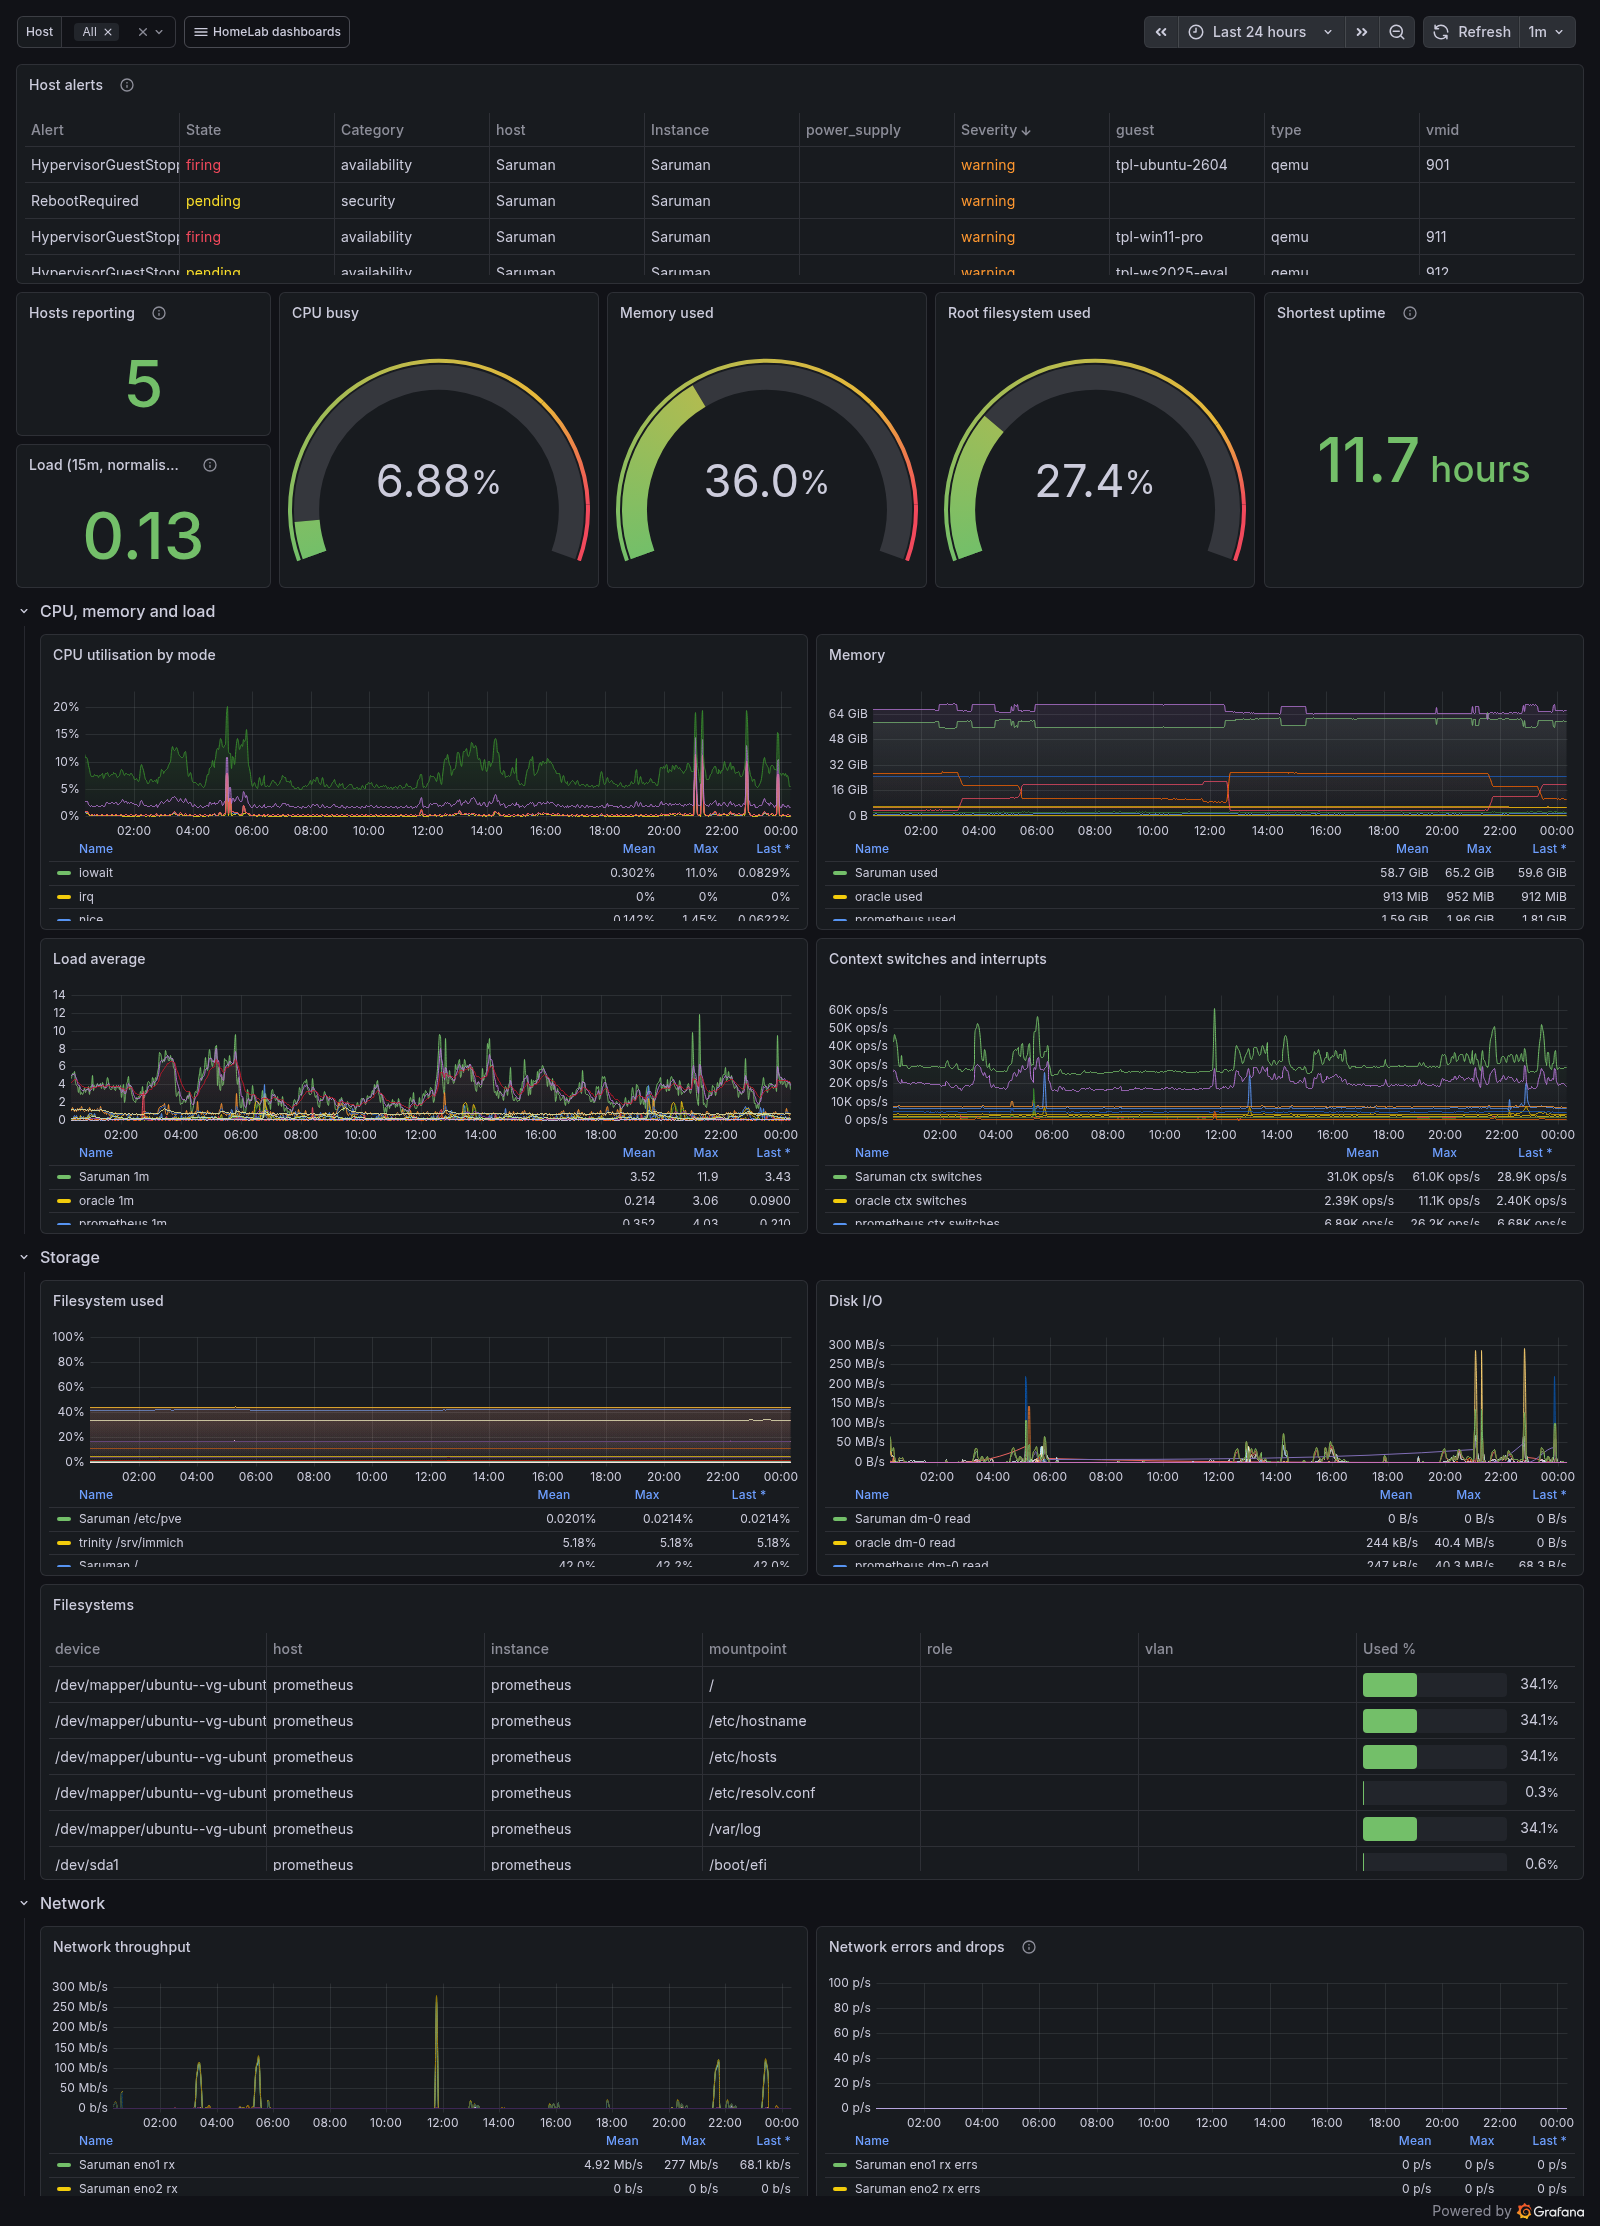
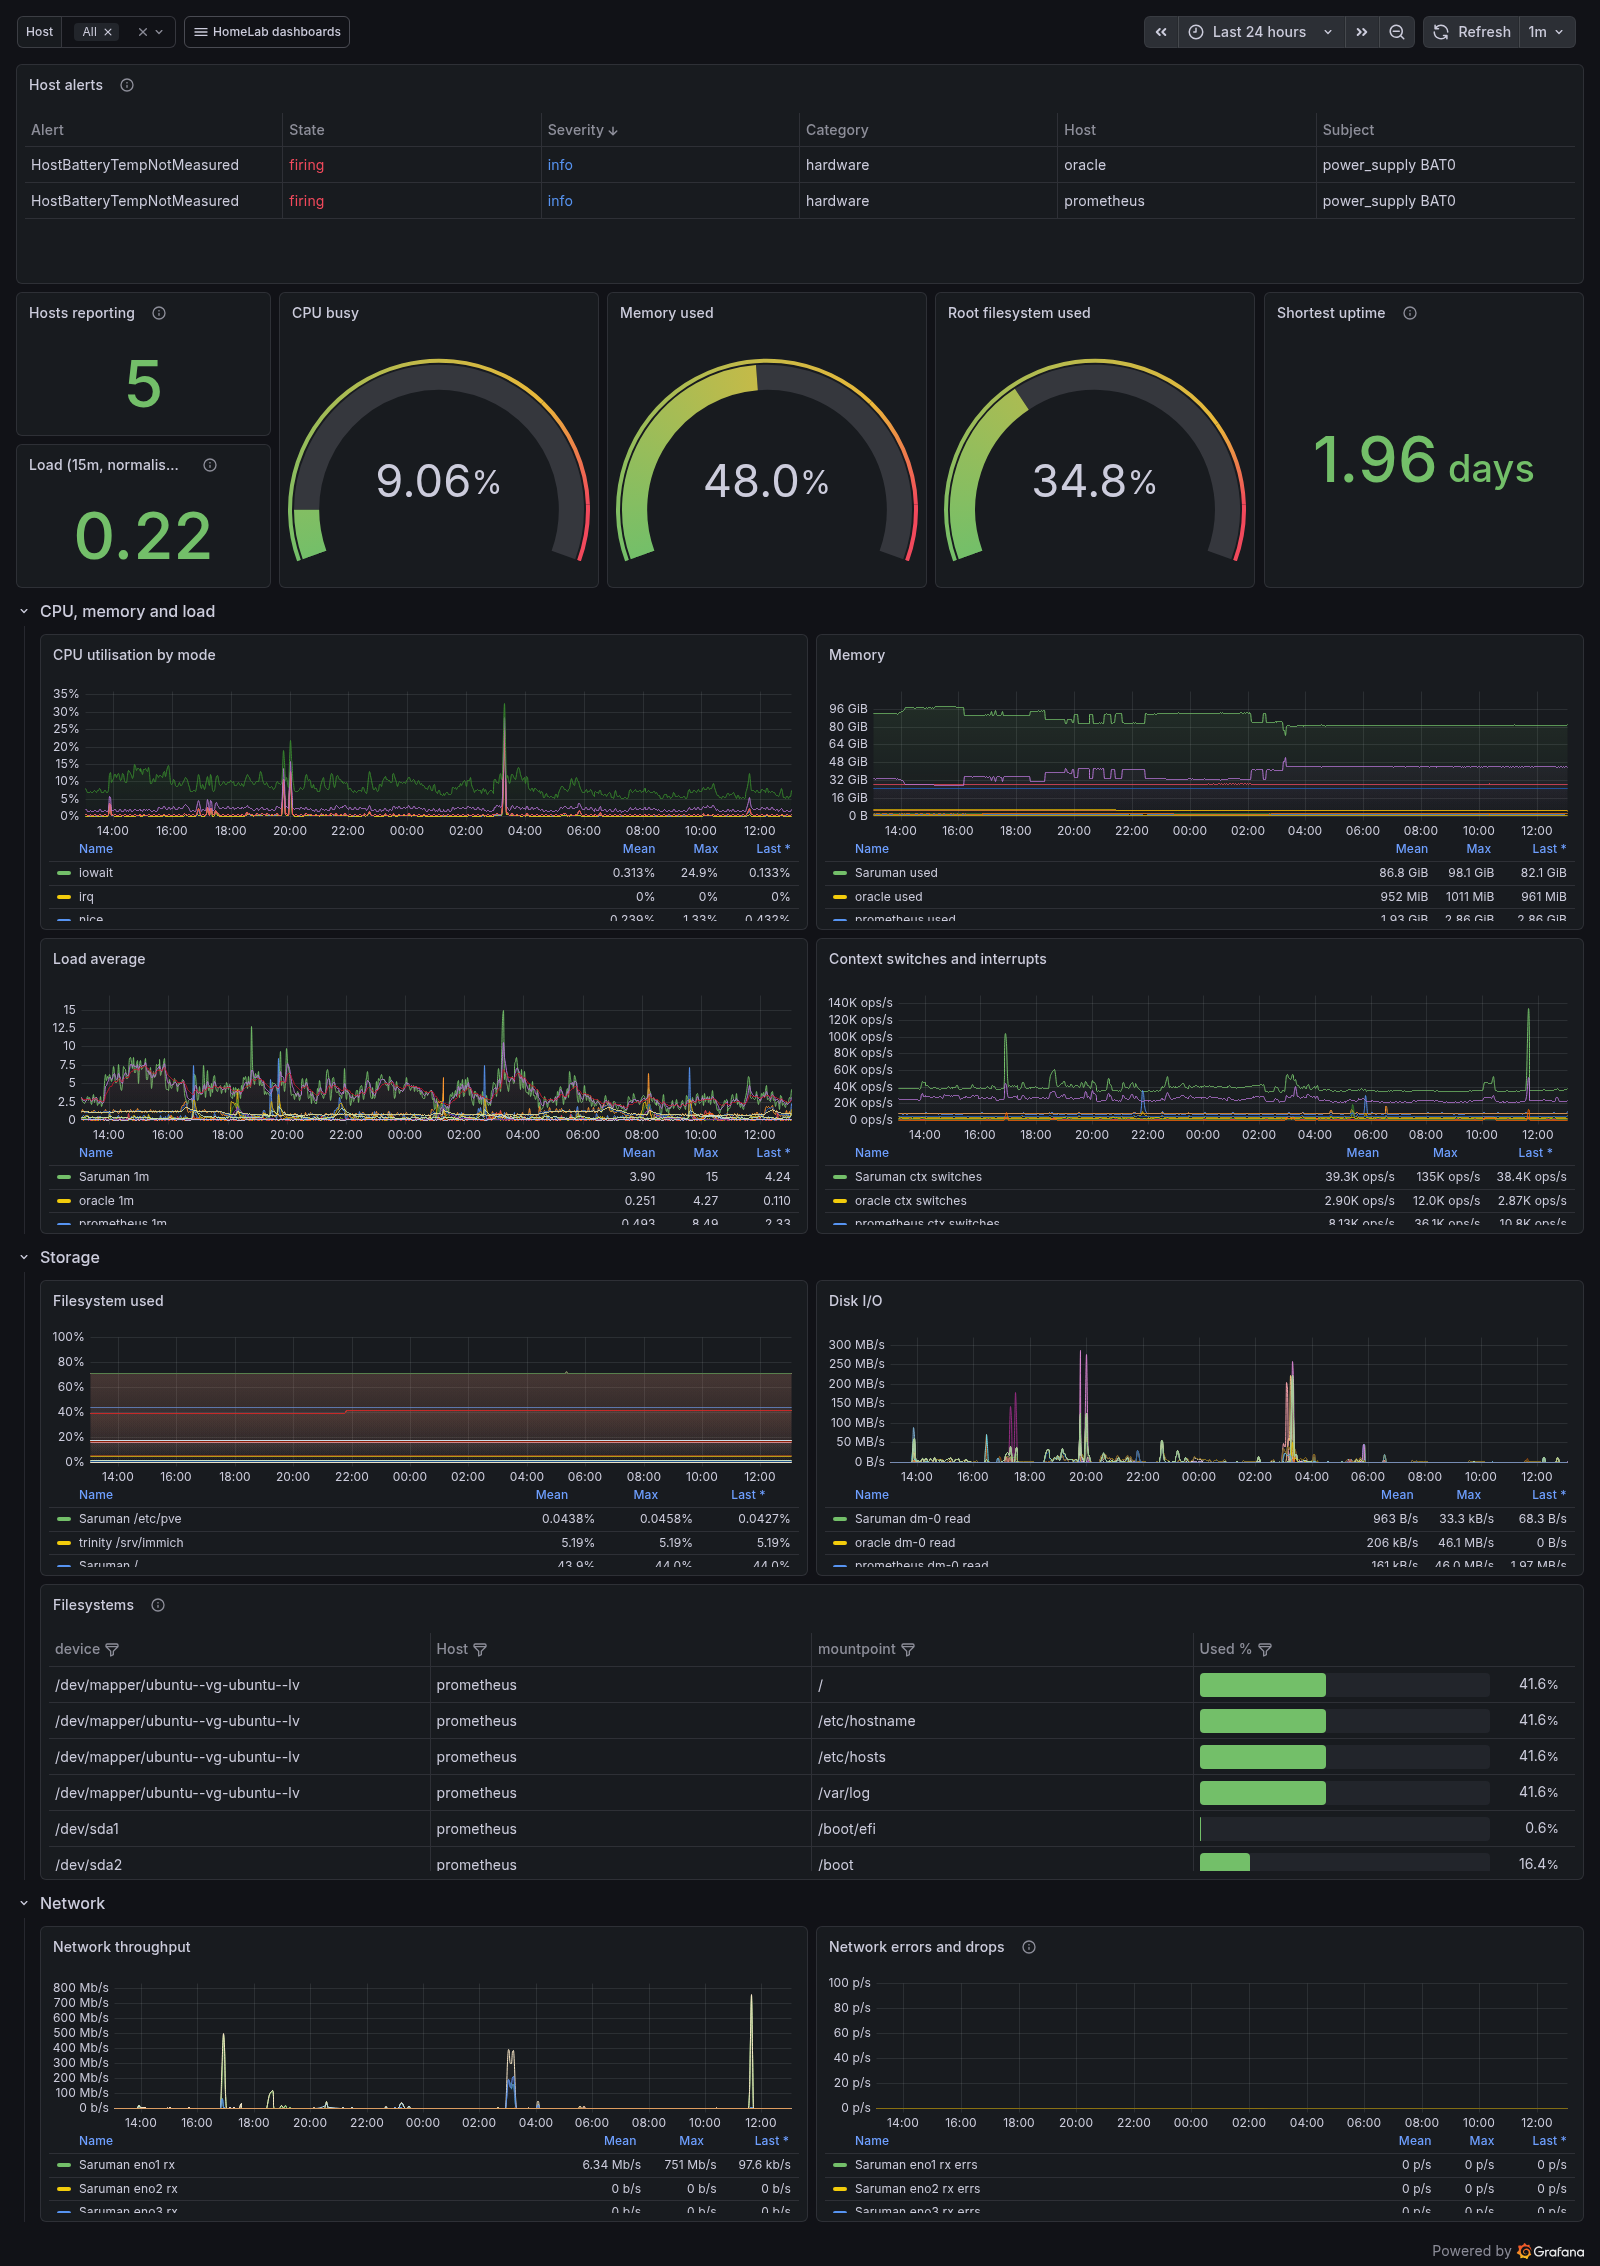
feat(observability): size speedtest-tracker at full rate, and capture the Internet dashboard (#924)
The memory limit stays at 384m, now justified by a measurement at full rate.
Anon memory peaked at 76.5 MiB across two ~940 Mbit/s tests, sampled twice a
second. The term RSS-based sizing missed is opcache: a 128 MiB shared segment,
90 MiB touched, which is charged as shmem and cannot be reclaimed without
swap. 3 x 76.5 + 128 = 358.

homelab-internet joins the capture set, and the whole set is re-shot on
2026-10-10. The re-shoot found two faults, and this fixes both:
- The height formula did not allow for the kiosk footer, which covered the
  last ~40px of every capture. The allowance goes from 60 to 100.
- Speed tests and WAN throughput were too short for their four-row legends.

docs/images/README.md drops the per-image notes for panel faults that now
render fixed (#886-#889).

diff --git a/docs/images/README.md b/docs/images/README.md
@@ -12,8 +12,8 @@ out rather than illustrated.
 
 ## What is here now
 
-Five images, captured in a single run on 2026-10-04 over a 24-hour window. One
-run rather than five afternoons: a set shot at the same moment is comparable,
+Six images, captured in a single run on 2026-10-10 over a 24-hour window. One
+run rather than six afternoons: a set shot at the same moment is comparable,
 and a gap in one of them is visible against the others.
 
 Which file holds which dashboard is in the table under "Capturing them" below,
@@ -23,33 +23,29 @@ Some things in them are real and should not be tidied away. A screenshot of a
 stack with nothing wrong would be the less honest picture, so each of these is
 recorded here instead of being cropped out:
 
-- **`host-overview.png`:** the alert table shows `HypervisorGuestStopped` for
-  the Packer templates 901 and 911. Templates never run, so this is the rule
-  needing a template exclusion, not a guest that died ([#885](https://github.com/Gerrrt/HomeLab/issues/885)).
-- **`network-snmp.png`:**
-  - *Firewall uptime* reads 12 years. `pfStatusRuntime` is in hundredths of a
-    second and the panel treats it as seconds, so the value is about 44 days
-    ([#886](https://github.com/Gerrrt/HomeLab/issues/886)). The panel now divides by
-    100; the image predates the fix.
-  - The firewall's *Filesystem usage* panel says *No data*. #873 added it, and
-    on the day of the capture the running stack was not yet collecting
-    `hrStorage` from `morpheus`: its rendered `snmp.yaml` predated the generator
-    change. It was re-rendered and the exporter recreated the same day
-    ([#887](https://github.com/Gerrrt/HomeLab/issues/887)), and the panel
-    has had data since.
-  - The iLO *Hardware health* table shows raw `cpqHeTemperature` column names
-    ([#888](https://github.com/Gerrrt/HomeLab/issues/888)).
-  - The `IloBatteryCondition` fault the 2026-08-22 capture showed is gone: the
-    pack was replaced on 2026-09-02.
-- **`ups-power.png`:**
-  - It now shows measured values under the banner that records the pack being
-    fitted and proven.
-  - *Input frequency* reads 600: the card reports tenths of a hertz and the
-    panel did not divide ([#889](https://github.com/Gerrrt/HomeLab/issues/889)). It now divides by 10;
-    the image predates the fix.
-- **`observability-stack.png`:** this is its first capture. The step in
-  ingestion near 22:00 is the stack being redeployed two hours before the
-  shot.
+- **`host-overview.png`:** the alert table shows `HostBatteryTempNotMeasured`
+  for `oracle` and `prometheus`. It is `info` on purpose: neither laptop pack
+  reports a temperature, and the rule says so for as long as that is true (the
+  comment above it in `host.rules.yaml` has why). The `HypervisorGuestStopped`
+  rows for the Packer templates the 2026-10-04 set showed are gone
+  ([#885](https://github.com/Gerrrt/HomeLab/issues/885)).
+- **`docker-containers.png`:** `memtest-ag2` and `memtest-ag3` lead three of
+  the legends. They were scratch containers measuring an image's memory, and
+  were removed before this was written.
+- **`internet.png`:** this is its first capture. The download dips near 20:00,
+  07:00 and late morning and the 32 % loss spike near 09:00 are real tests and real loss,
+  not render artefacts; WAN receive errors stayed at zero throughout, so they
+  are not the #914 cable.
+
+The 2026-10-04 set recorded four panel faults that this one shows fixed:
+*Firewall uptime* reading 12 years ([#886](https://github.com/Gerrrt/HomeLab/issues/886)),
+the firewall's *Filesystem usage* saying *No data* ([#887](https://github.com/Gerrrt/HomeLab/issues/887)),
+raw `cpqHeTemperature` column names in the iLO *Hardware health* table
+([#888](https://github.com/Gerrrt/HomeLab/issues/888)), and *Input frequency*
+reading 600 ([#889](https://github.com/Gerrrt/HomeLab/issues/889)). Every image in
+that set also lost its last legend row: the kiosk footer covered the bottom
+~40px, which the height formula did not allow for until this capture
+([#924](https://github.com/Gerrrt/HomeLab/issues/924)).
 
 The set before this one was shot on 2026-08-22 and showed `mjolnir` with no
 battery fitted. The Container inventory panel in an earlier set published the
@@ -65,7 +61,7 @@ make screenshots
 ```
 
 `scripts/capture-screenshots.sh` starts the `capture` profile's renderer, shoots
-five of the eight dashboards over a 24-hour window, and stops the renderer
+six of the eight dashboards over a 24-hour window, and stops the renderer
 again. Nothing is left running, and `docker compose ps` shows the same services
 afterwards as before. The renderer carries `homelab.logs=off`, the label the
 estate's other throwaway containers use. That keeps `ContainerGone` from paging
@@ -83,6 +79,7 @@ drift:
 | `network-snmp.png` | Network & Firewall |
 | `ups-power.png` | UPS & Power |
 | `observability-stack.png` | Observability Stack |
+| `internet.png` | Internet |
 
 Height is derived per dashboard from its own JSON, so adding a panel makes the
 screenshot taller instead of pushing the new panel out of frame. The ceiling is
@@ -111,12 +108,8 @@ correct fix for a bad window, not cropping.
 
 ## What is not captured, and why
 
-There are eight dashboards and five screenshots. `homelab-logs` and
-`homelab-security` are excluded on purpose and always will be. `homelab-internet`
-is not captured yet, for a reason that expires: it has no data until
-speedtest-tracker is deployed, and a screenshot of empty panels documents
-nothing. Add it to `scripts/capture-screenshots.sh` after its first day of
-results ([#914](https://github.com/Gerrrt/HomeLab/issues/914)).
+There are eight dashboards and six screenshots. `homelab-logs` and
+`homelab-security` are excluded on purpose and always will be.
 
 ### `homelab-logs` is excluded on purpose
 

diff --git a/README.md b/README.md
@@ -312,7 +312,7 @@ a ninety-day deadline and an alert instead. See
 
 ## Dashboards
 
-Rendered from the running stack by `make screenshots` on 2026-10-04, over a
+Rendered from the running stack by `make screenshots` on 2026-10-10, over a
 24-hour window. Every dashboard but Logs and Security is here;
 `docs/images/README.md` explains why those two are deliberately left out, and
 what in these renders is a known fault rather than the steady state.
@@ -336,6 +336,10 @@ was fitted and proven.](docs/images/ups-power.png)
 ![Observability Stack dashboard: every scrape target with its staleness, then
 Prometheus, Loki, Alertmanager and the Alloy agents — the collection path
 watching itself.](docs/images/observability-stack.png)
+
+![Internet dashboard: scheduled speed tests against the link's ceiling, WAN
+throughput and errors from the firewall, round-trip time, latency under load,
+and dpinger's uplink loss and delay.](docs/images/internet.png)
 
 ## What runs it
 
